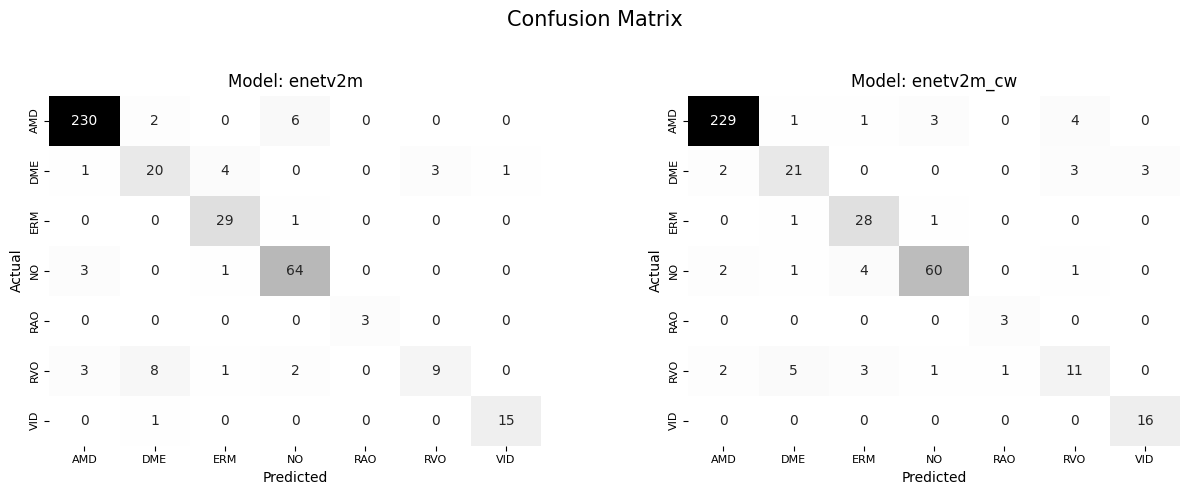
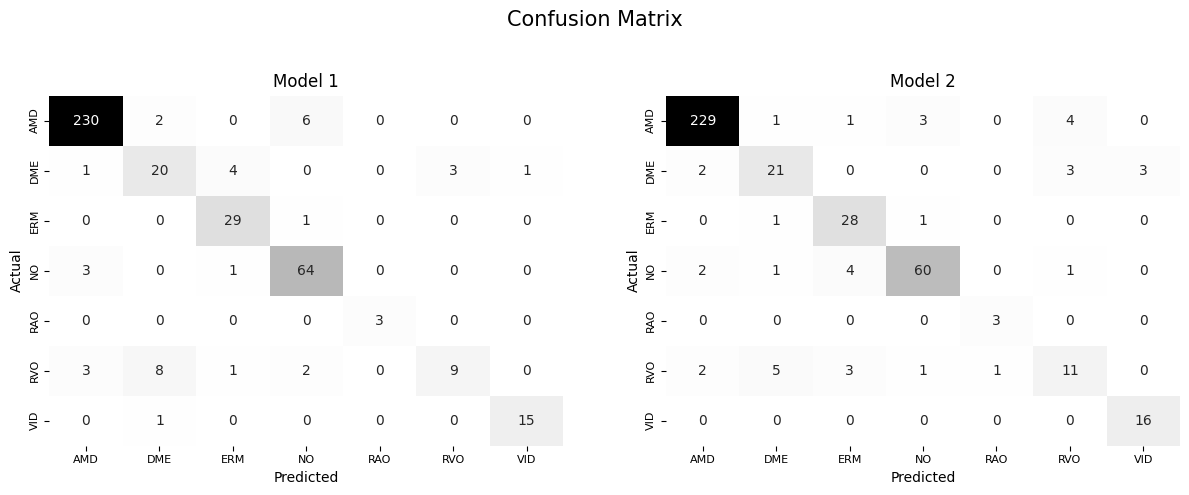
update repo

diff --git a/README.md b/README.md
@@ -64,6 +64,7 @@ For model development, data splitting was performed following the methodology ou
 | Retinal Vein Occlusion               | RVO   | 101                  | 50                 |
 | Vitreomacular Interface Disease      | VID   | 76                   | 51                 |
 | **Total**                            |       | **2064**             | **821**            |
+
 <i>Table 1. Class distribution of OCTDL dataset.</i>
 
 
@@ -93,14 +94,24 @@ Yoo et al. (2020) previously trained their models using two pre-trained architec
 ![precision_recall_curve](assets/images/precision_recall_curve.png)
 <i>Figure 3. Precision recall curves.</i>
 
-| Metric            | Model       | AMD   | DME   | ERM   | NO    | RAO    | RVO   | VID   |
-|-------------------|-------------|-------|-------|-------|-------|--------|-------|-------|
-| AUC               | enetv2m     | 0.9936| 0.9853| 0.9933| 0.994 | 1.0000 | 0.9711| 1.0000|
-|                   | enetv2m_cw  | 0.9898| 0.9768| 0.9935| 0.9945| 1.0000 | 0.9561| 0.9997|
-| Average Precision | enetv2m     | 0.9960| 0.8406| 0.9592| 0.9659| 1.0000 | 0.7337| 1.0000|
-|                   | enetv2m_cw  | 0.9938| 0.8321| 0.9706| 0.9704| 1.0000 | 0.6928| 0.9931|
+| Class | Model    | Precision | Recall  | F1-Score | AUC    | Average Precision |
+|-------|----------|-----------|---------|----------|--------|-------------------|
+| AMD   | Model 1  | 0.9705    | 0.9664  | 0.9684   | 0.9936 | 0.9960            |
+|       | Model 2  | 0.9745    | 0.9622  | 0.9683   | 0.9898 | 0.9938            |
+| DME   | Model 1  | 0.6452    | 0.6897  | 0.6667   | 0.9853 | 0.8406            |
+|       | Model 2  | 0.7241    | 0.7241  | 0.7241   | 0.9768 | 0.8321            |
+| ERM   | Model 1  | 0.8286    | 0.9667  | 0.8923   | 0.9933 | 0.9592            |
+|       | Model 2  | 0.7778    | 0.9333  | 0.8485   | 0.9935 | 0.9706            |
+| NO    | Model 1  | 0.8767    | 0.9412  | 0.9078   | 0.9940 | 0.9659            |
+|       | Model 2  | 0.9231    | 0.8824  | 0.9023   | 0.9945 | 0.9704            |
+| RAO   | Model 1  | 1.0000    | 1.0000  | 1.0000   | 1.0000 | 1.0000            |
+|       | Model 2  | 0.7500    | 1.0000  | 0.8571   | 1.0000 | 1.0000            |
+| RVO   | Model 1  | 0.7500    | 0.3913  | 0.5143   | 0.9711 | 0.7337            |
+|       | Model 2  | 0.5789    | 0.4783  | 0.5238   | 0.9561 | 0.6928            |
+| VID   | Model 1  | 0.9375    | 0.9375  | 0.9375   | 1.0000 | 1.0000            |
+|       | Model 2  | 0.8421    | 1.0000  | 0.9143   | 0.9997 | 0.9931            |
 
-<i>Table 2. AUC values and aberage precision (AP) values of each class in the dataset.</i>
+<i>Table 2. Resulting metrics of Model 1 (without class weight adjustment) and Model 2 (with class weight adjustment) on OCTDL dataset.</i>
 
 ![confusion_matrix](assets/images/confusion_matrix.png)
 <i>Figure 4. Confusion matrices of models fine-tuned using EfficientNetv2 architecture with and without class weight adjusted, trained on OCTDL dataset.</i>
@@ -111,7 +122,7 @@ Yoo et al. (2020) previously trained their models using two pre-trained architec
 ### Future Directions
 ---
 
-1. **Addressing Class Imbalance.** It is suggested that additional techniques such as oversampling and undersampling be applied to enhance the model's ability to generalize and improve overall performance. These methods may help mitigate the effects of class imbalance in the dataset, leading to more robust predictions across all classes.
+1. **Addressing Class Imbalance.** Exploring other techniques such as oversampling and undersampling be applied to enhance the model's ability to generalize and improve overall performance. These methods may help mitigate the effects of class imbalance in the dataset, leading to more robust predictions across all classes.
 
 2. **Exploring Different Network Architectures.** Investigating the use of pre-trained Vision Transformer (ViT) models could be beneficial for assessing their performance, particularly concerning minority classes. Given their unique architecture and attention mechanisms, ViTs may offer improved feature extraction and classification capabilities compared to traditional CNNs.
 
